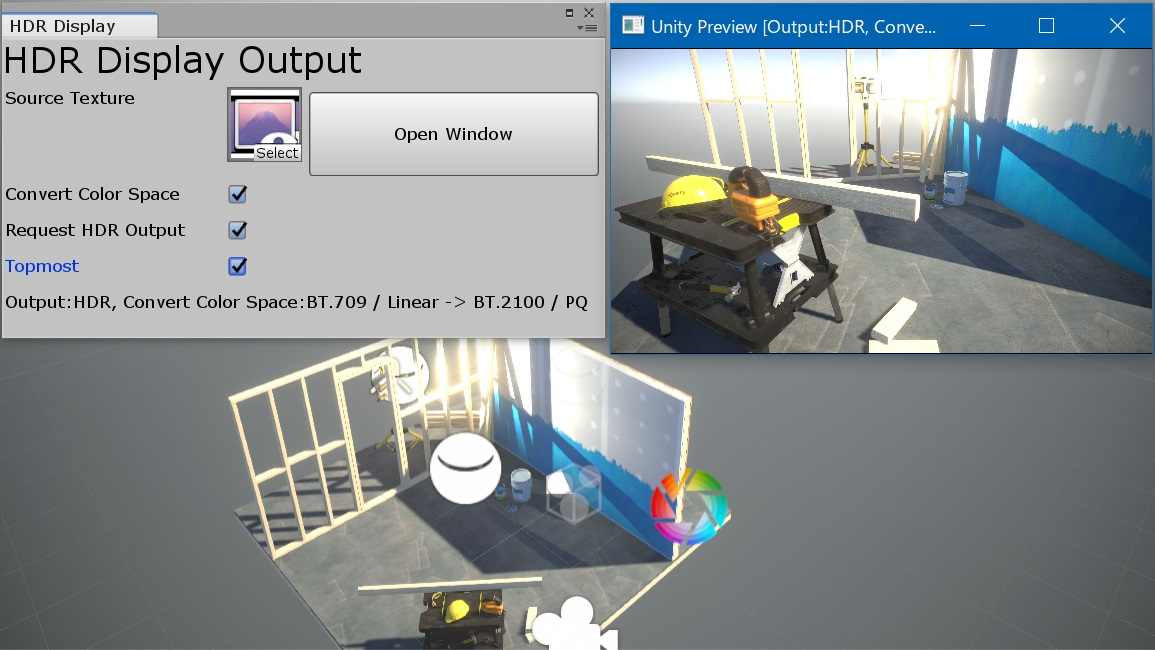
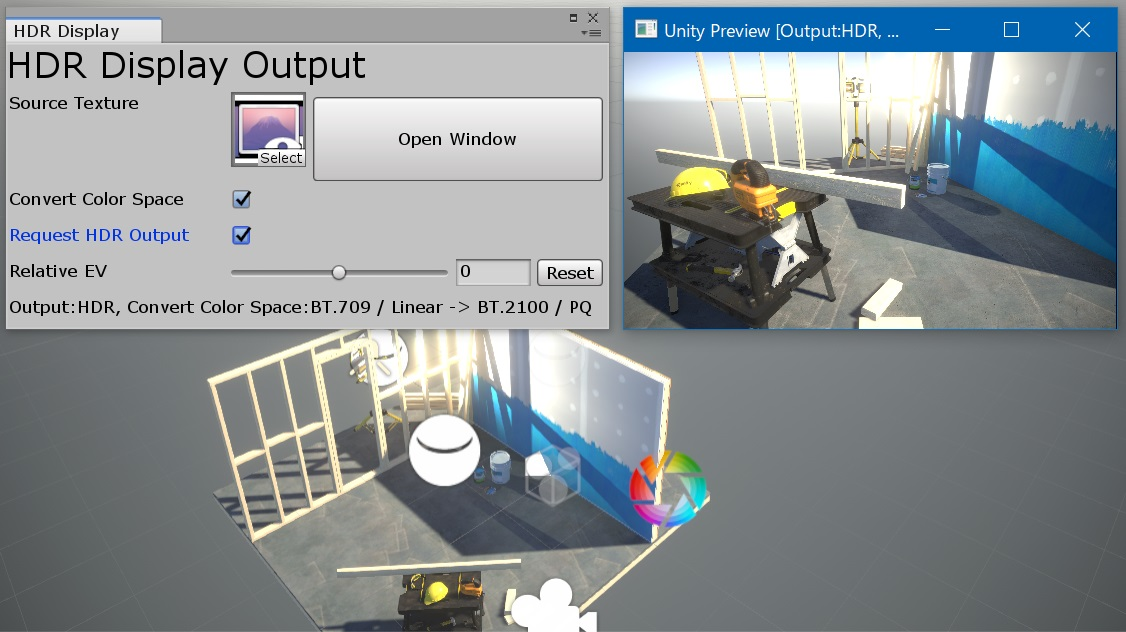
Update README

Changed region(s): [[0.0, 0.0, 1.0, 0.9019], [0.2487, 0.8117, 0.5595, 1.0], [0.9014, 0.2706, 0.9325, 0.3006]]

diff --git a/README.ja.md b/README.ja.md
@@ -50,8 +50,8 @@ HDR レンダリングした SDR 範囲を超える色は SDR ディスプレイ
 * Request HDR Output  
     チェックをすると出力先ディスプレイ (出力ウィンドウが表示されているディスプレイ) が HDR 表示可能だった場合、 HDR 表示をするようにします。  
     チェックされていない場合は HDR 可能でも SDR で表示します。
-* Top most
-    プレビューウィンドウを常に最前面に表示するようにします。
+* Relative EV  
+    プレビューの明るさを調整します。
 
 ## 使用時の注意
 

diff --git a/README.md b/README.md
@@ -49,8 +49,8 @@ It can be output with SDR even in non-HDR compatible environment.
 * Request HDR Output  
     * (checked) If the display is possible to output HDR color, set to HDR output mode.  
     * (not checked) Always output with SDR.
-* Topmost
-    Set to the topmost window.
+* Relative EV  
+    Adjust the brightness of the preview.
 
 ## Notes
 
